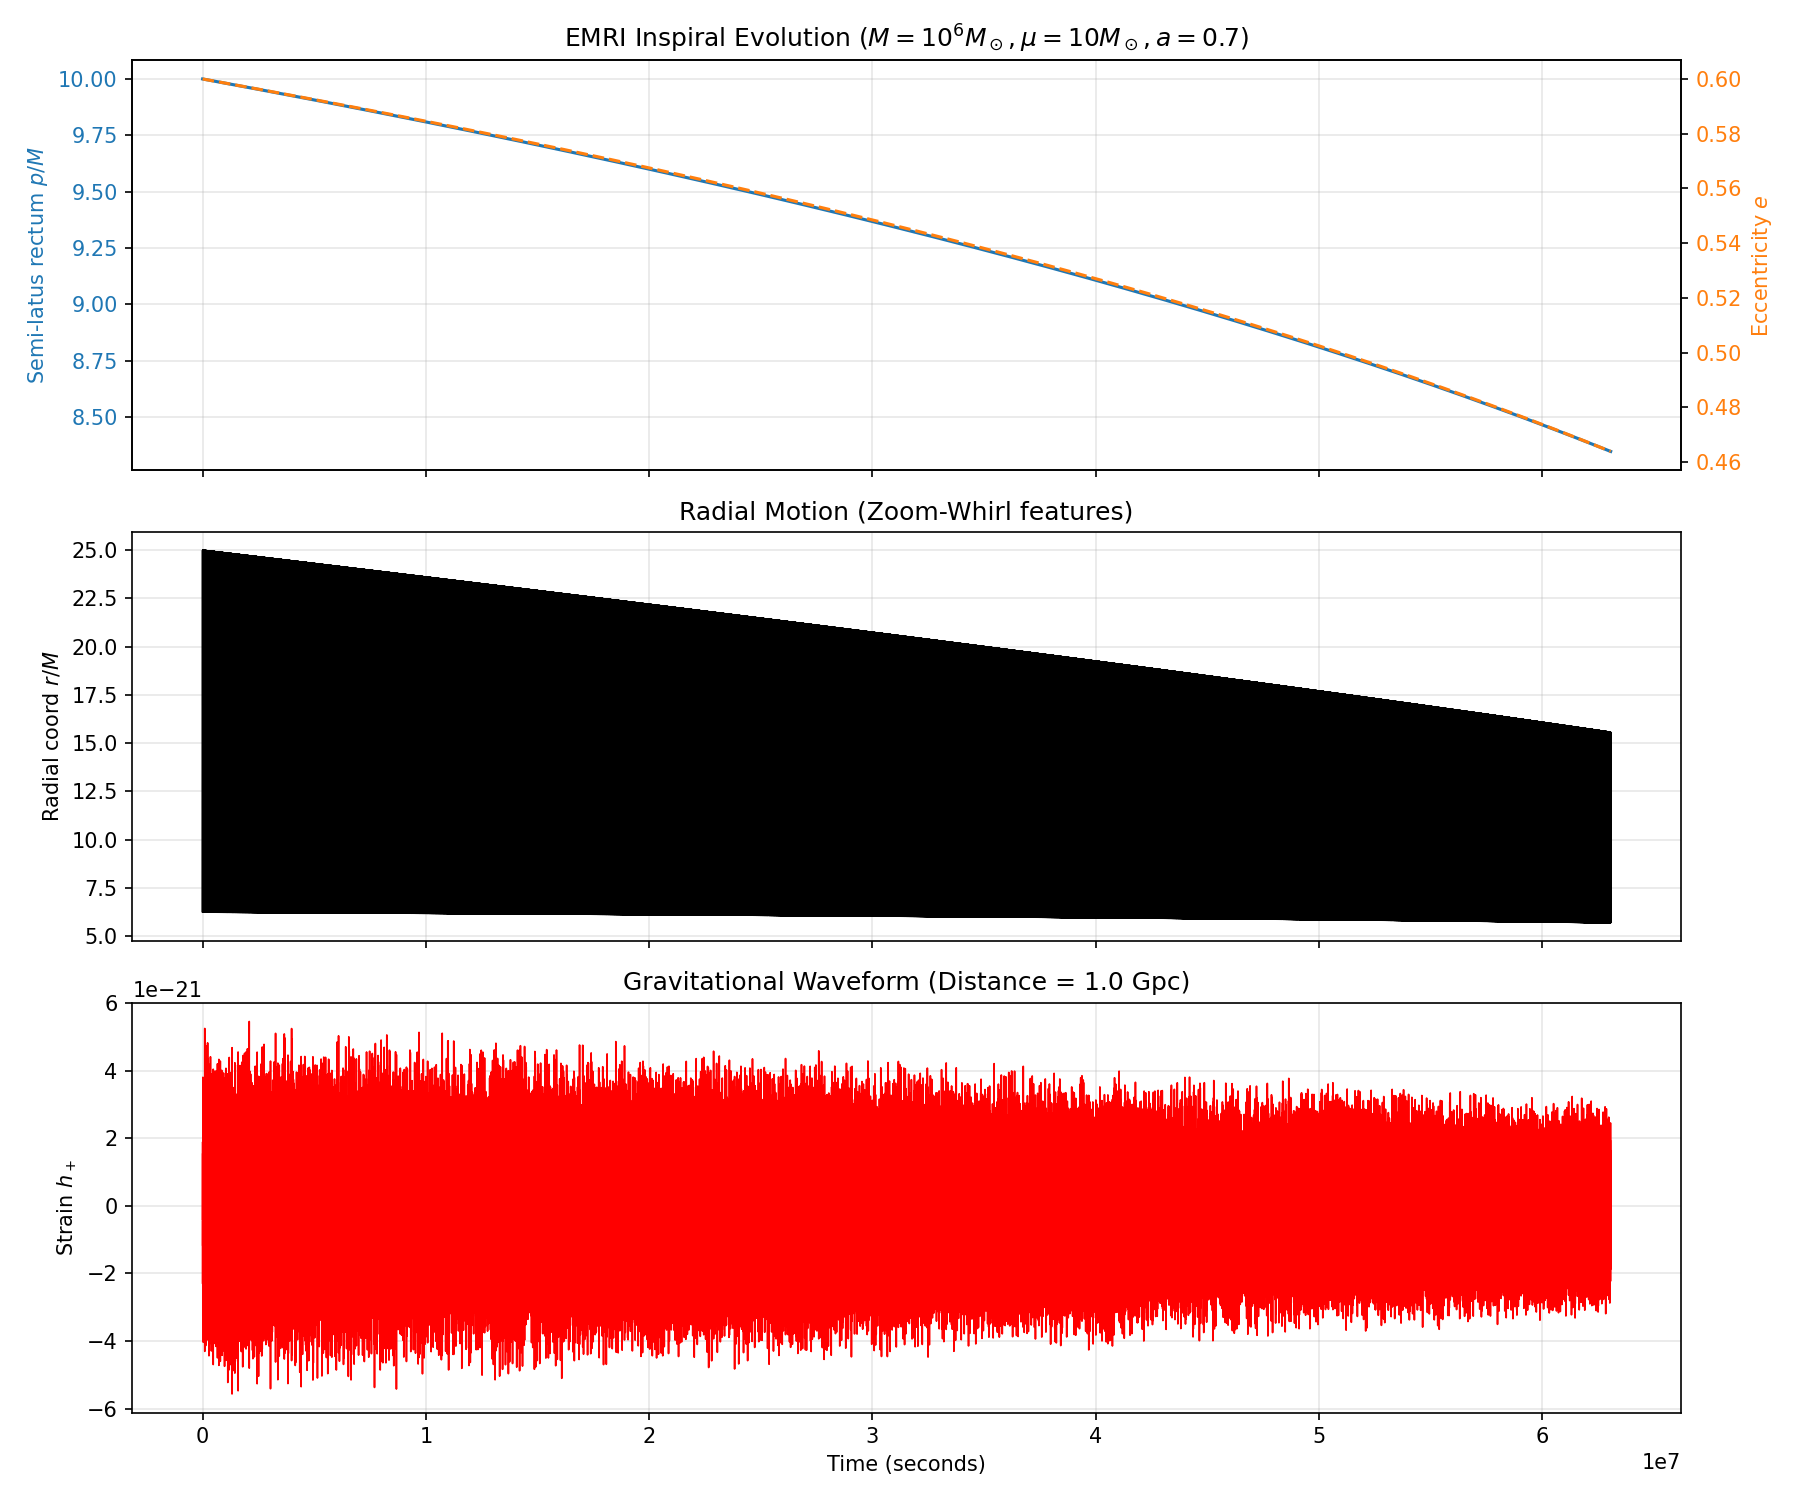
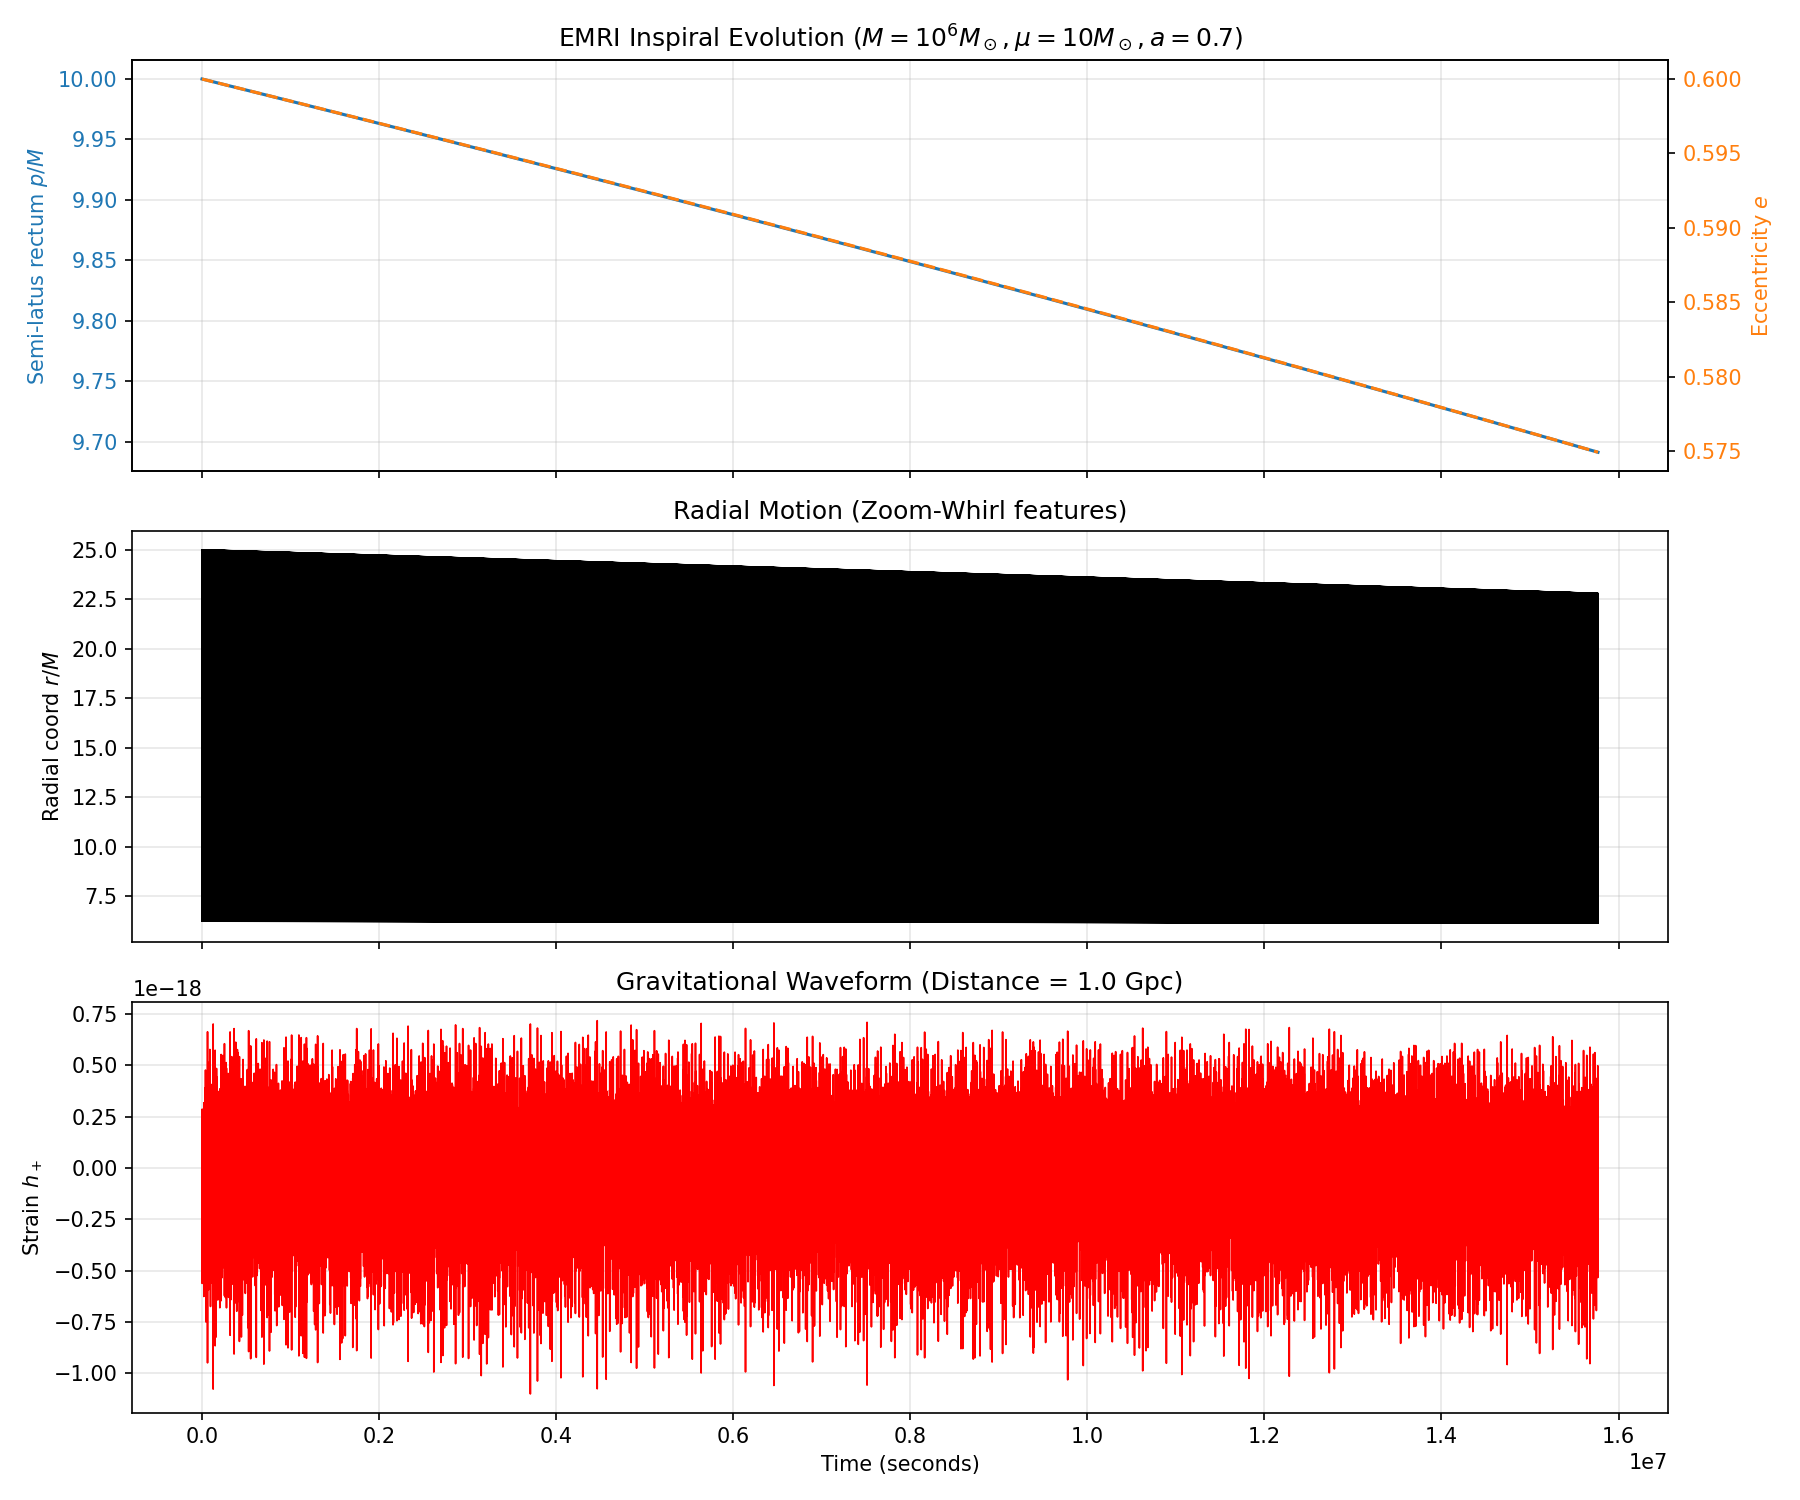
NK update 27

diff --git a/src/emrikludge/waveforms/nk_waveform.py b/src/emrikludge/waveforms/nk_waveform.py
@@ -2,7 +2,7 @@
 
 import numpy as np
 from dataclasses import dataclass
-
+from scipy.interpolate import CubicSpline  # <--- 新增
 # 常数定义
 G_SI = 6.67430e-11
 C_SI = 299792458.0
@@ -25,7 +25,15 @@ def get_minkowski_trajectory(trajectory):
     y = r * sin_theta * np.sin(phi)
     z = r * np.cos(theta)
     return np.stack([x, y, z], axis=0)
-
+def compute_derivative_spline(t, y):
+    """
+    使用三次样条插值计算导数。
+    比 np.gradient 更精准，尤其适合高阶导数。
+    """
+    # 创建样条曲线
+    cs = CubicSpline(t, y)
+    # 返回一阶导数
+    return cs(t, 1)
 def compute_nk_waveform(trajectory, mu_phys, M_phys, observer: ObserverInfo, dt_M):
     """
     计算波形。
@@ -53,38 +61,51 @@ def compute_nk_waveform(trajectory, mu_phys, M_phys, observer: ObserverInfo, dt_
     q = mu_kg / M_kg
     
     # 2. 准备数据 (全是无量纲的)
+    t_grid = trajectory.t
     x_vec = get_minkowski_trajectory(trajectory)
-    
-    # 3. 数值微分 (对无量纲时间 t_code 求导)
-    # dt_code = dt_M
-    v_vec = np.gradient(x_vec, dt_M, axis=1, edge_order=2)
-    
-    # 4. 多极矩 (无量纲)
-    # I_ij = q * x_i * x_j (注意这里用质量比 q)
+    # --- 构造多极矩 (无量纲) ---
+    # I_ij = q * x_i * x_j
     I_tensor = q * np.einsum('it,jt->ijt', x_vec, x_vec)
     
-    # S_ijk = v_i * I_jk
-    S_tensor = np.einsum('it,jkt->ijkt', v_vec, I_tensor)
+    # M_ijk = q * x_i * x_j * x_k (注意系数也是 q)
+    # Babak Eq 27: Mijk = x_i I_jk / mu * mu = x_i * (mu x x) = mu x x x
+    M_tensor = q * np.einsum('it,jt,kt->ijkt', x_vec, x_vec, x_vec)
+
+    # S_ijk = mu * v_i * x_j * x_k
+    # 这里需要 v，我们先算 v
+    v_vec = np.zeros_like(x_vec)
+    for i in range(3):
+        v_vec[i] = compute_derivative_spline(t_grid, x_vec[i])
+        
+    S_tensor = q * np.einsum('it,jt,kt->ijkt', v_vec, x_vec, x_vec)
     
-    # M_ijk = x_i * I_jk
-    M_tensor = np.einsum('it,jkt->ijkt', x_vec, I_tensor)
+    # --- 对多极矩求导 ---
     
-    # 5. 高阶导数 (对 t_code)
-    d1_I = np.gradient(I_tensor, dt_M, axis=2, edge_order=2)
-    d2_I = np.gradient(d1_I, dt_M, axis=2, edge_order=2)
+    # I_ij 需要 2 阶导 (d2_I)
+    d2_I = np.zeros_like(I_tensor)
+    for i in range(3):
+        for j in range(3):
+            # 这里的 Spline 是一次构建多次求导，效率很高
+            cs_I = CubicSpline(t_grid, I_tensor[i, j])
+            d2_I[i, j] = cs_I(t_grid, 2) # 直接求 2 阶导
+
+    # S_ijk 需要 2 阶导 (d2_S)
+    d2_S = np.zeros_like(S_tensor)
+    for i in range(3):
+        for j in range(3):
+            for k in range(3):
+                cs_S = CubicSpline(t_grid, S_tensor[i, j, k])
+                d2_S[i, j, k] = cs_S(t_grid, 2)
+
+    # M_ijk 需要 3 阶导 (d3_M)
+    d3_M = np.zeros_like(M_tensor)
+    for i in range(3):
+        for j in range(3):
+            for k in range(3):
+                cs_M = CubicSpline(t_grid, M_tensor[i, j, k])
+                d3_M[i, j, k] = cs_M(t_grid, 3)
     
-    d1_S = np.gradient(S_tensor, dt_M, axis=3, edge_order=2)
-    d2_S = np.gradient(d1_S, dt_M, axis=3, edge_order=2)
-    
-    d1_M = np.gradient(M_tensor, dt_M, axis=3, edge_order=2)
-    d2_M = np.gradient(d1_M, dt_M, axis=3, edge_order=2)
-    d3_M = np.gradient(d2_M, dt_M, axis=3, edge_order=2)
-    
-    # 6. 组装 h_ij (无量纲应变)
-    # 公式: h = (2/D) * d2I/dt2 ...
-    # 这里的 D 是 D_code，t 是 t_code，I 包含 q
-    # 结果 h 就是物理应变 (因为 h 本身无量纲)
-    
+    # 6. 组装 h_ij
     sin_T = np.sin(observer.theta)
     n_vec = np.array([
         sin_T * np.cos(observer.phi),
@@ -99,6 +120,51 @@ def compute_nk_waveform(trajectory, mu_phys, M_phys, observer: ObserverInfo, dt_
     
     # 7. 投影
     return _project_to_tt(h_tensor, observer)
+    
+    # # 3. 数值微分 (对无量纲时间 t_code 求导)
+    # # dt_code = dt_M
+    # v_vec = np.gradient(x_vec, dt_M, axis=1, edge_order=2)
+    
+    # # 4. 多极矩 (无量纲)
+    # # I_ij = q * x_i * x_j (注意这里用质量比 q)
+    # I_tensor = q * np.einsum('it,jt->ijt', x_vec, x_vec)
+    
+    # # S_ijk = v_i * I_jk
+    # S_tensor = np.einsum('it,jkt->ijkt', v_vec, I_tensor)
+    
+    # # M_ijk = x_i * I_jk
+    # M_tensor = np.einsum('it,jkt->ijkt', x_vec, I_tensor)
+    
+    # # 5. 高阶导数 (对 t_code)
+    # d1_I = np.gradient(I_tensor, dt_M, axis=2, edge_order=2)
+    # d2_I = np.gradient(d1_I, dt_M, axis=2, edge_order=2)
+    
+    # d1_S = np.gradient(S_tensor, dt_M, axis=3, edge_order=2)
+    # d2_S = np.gradient(d1_S, dt_M, axis=3, edge_order=2)
+    
+    # d1_M = np.gradient(M_tensor, dt_M, axis=3, edge_order=2)
+    # d2_M = np.gradient(d1_M, dt_M, axis=3, edge_order=2)
+    # d3_M = np.gradient(d2_M, dt_M, axis=3, edge_order=2)
+    
+    # # 6. 组装 h_ij (无量纲应变)
+    # # 公式: h = (2/D) * d2I/dt2 ...
+    # # 这里的 D 是 D_code，t 是 t_code，I 包含 q
+    # # 结果 h 就是物理应变 (因为 h 本身无量纲)
+    
+    # sin_T = np.sin(observer.theta)
+    # n_vec = np.array([
+    #     sin_T * np.cos(observer.phi),
+    #     sin_T * np.sin(observer.phi),
+    #     np.cos(observer.theta)
+    # ])
+    
+    # n_d2S = np.einsum('i,ijkt->jkt', n_vec, d2_S)
+    # n_d3M = np.einsum('i,ijkt->jkt', n_vec, d3_M)
+    
+    # h_tensor = (2.0 / D_code) * (d2_I - 2.0 * n_d2S + n_d3M)
+    
+    # # 7. 投影
+    # return _project_to_tt(h_tensor, observer)
 
 def _project_to_tt(h_tensor, observer):
     # ... (保持原有的投影逻辑) ...

diff --git a/test_inspiral.py b/test_inspiral.py
@@ -96,15 +96,15 @@ def run_inspiral_demo():
     # 初始轨道几何参数
     p_init = 10.0     # 初始半通径 p/M
     e_init = 0.6      # 初始偏心率
-    iota_init = np.radians(30.0)  # 初始倾角 (60度)
+    iota_init = np.radians(30.0)  # 初始倾角 (30度)
 
     # 演化控制
     # 演化时间 (以 M 为单位)。
     # 1 M_sun 的 M 约为 4.92e-6 秒。
     # 1e6 M_sun 的 1 M 约为 4.92 秒。
-    T=4.0# 年
+    T=0.5 #年
     duration_M=T*365.0*24.0*3600.0 / (G_SI * (M_phys * M_SUN_SI) / (C_SI**3))
-    dt=10.0 #10秒
+    dt=2.0 #秒
     dt_M = dt* (C_SI**3) /(G_SI * (M_phys * M_SUN_SI))
 
     # 观测者设置
